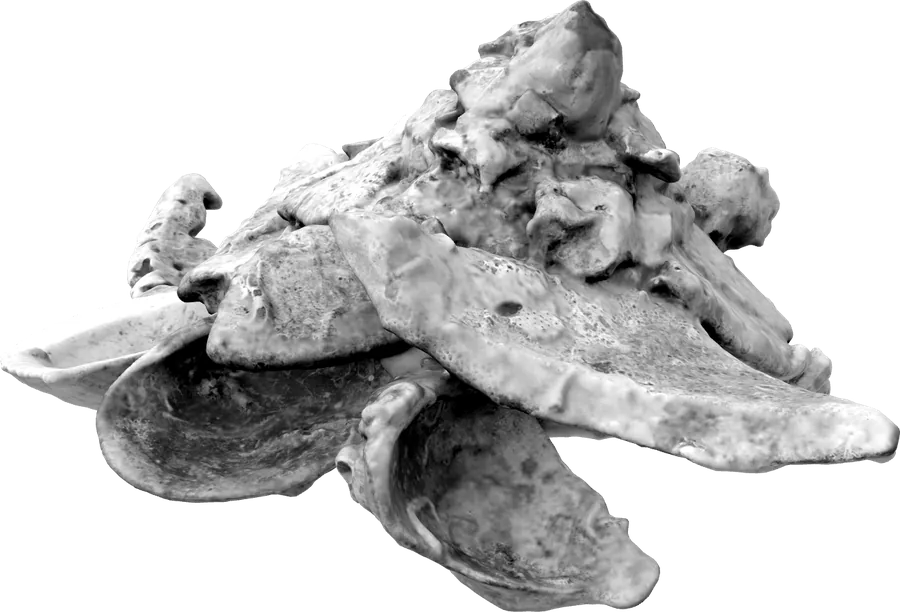
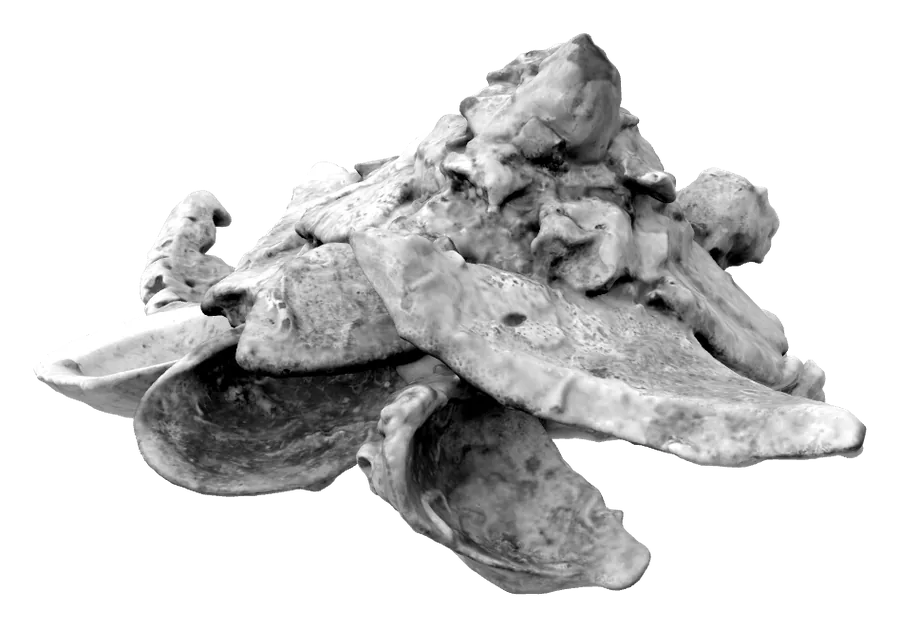
Xenófora real completa: la vista se recortaba abajo
Claude-Session: https://claude.ai/code/session_0157ByisvVguDCfhuNNC7ZLh

Changed region(s): [[0.0, 0.0, 1.0, 1.0]]

diff --git a/site/index.html b/site/index.html
@@ -651,7 +651,7 @@ footer a{color:inherit}
     <p class="fresh" id="concha-new"></p><h1 class="exp" data-en="Your xenophora">Tu xenófora</h1><h1 class="mys" data-en="The xenophora.">La xenófora.</h1>
     <p class="lede" data-en="Your story with the machine lives here. The idols you take wait here. Each gesture you make changes it. With seven gestures, it transforms.">Aquí vive tu historia con la máquina. Los ídolos que te llevas esperan aquí. Cada gesto que haces la cambia. Con siete gestos, se transforma.</p>
   </div>
-  <figure class="specimen"><img src="img/xenofora-ejemplar.webp" alt="Una xenófora de verdad: un caracol de mar cubierto de conchas que se pegó" data-en-alt="A real xenophora: a sea snail covered in shells it stuck to itself" width="520" height="496"><figcaption data-en="<i>Xenophora conchyliophora</i>, the real one. Smithsonian scan (NMNH, USNM 92924), public domain."><i>Xenophora conchyliophora</i>, la de verdad. Escaneo del Smithsonian (NMNH, USNM 92924), dominio público.</figcaption></figure></div>
+  <figure class="specimen"><img src="img/xenofora-ejemplar.webp" alt="Una xenófora de verdad: un caracol de mar cubierto de conchas que se pegó" data-en-alt="A real xenophora: a sea snail covered in shells it stuck to itself" width="510" height="520"><figcaption data-en="<i>Xenophora conchyliophora</i>, the real one. Smithsonian scan (NMNH, USNM 92924), public domain."><i>Xenophora conchyliophora</i>, la de verdad. Escaneo del Smithsonian (NMNH, USNM 92924), dominio público.</figcaption></figure></div>
   <div class="concha-grid">
     <canvas id="shell" width="1000" height="1000" aria-label="Tu xenófora: una espiral con tus ídolos pegados" data-en-aria-label="Your xenophora: a spiral with your idols stuck to it"></canvas>
     <div class="concha-side">

diff --git a/source/template.html b/source/template.html
@@ -651,7 +651,7 @@ footer a{color:inherit}
     <p class="fresh" id="concha-new"></p><h1 class="exp" data-en="Your xenophora">Tu xenófora</h1><h1 class="mys" data-en="The xenophora.">La xenófora.</h1>
     <p class="lede" data-en="Your story with the machine lives here. The idols you take wait here. Each gesture you make changes it. With seven gestures, it transforms.">Aquí vive tu historia con la máquina. Los ídolos que te llevas esperan aquí. Cada gesto que haces la cambia. Con siete gestos, se transforma.</p>
   </div>
-  <figure class="specimen"><img src="img/xenofora-ejemplar.webp" alt="Una xenófora de verdad: un caracol de mar cubierto de conchas que se pegó" data-en-alt="A real xenophora: a sea snail covered in shells it stuck to itself" width="520" height="496"><figcaption data-en="<i>Xenophora conchyliophora</i>, the real one. Smithsonian scan (NMNH, USNM 92924), public domain."><i>Xenophora conchyliophora</i>, la de verdad. Escaneo del Smithsonian (NMNH, USNM 92924), dominio público.</figcaption></figure></div>
+  <figure class="specimen"><img src="img/xenofora-ejemplar.webp" alt="Una xenófora de verdad: un caracol de mar cubierto de conchas que se pegó" data-en-alt="A real xenophora: a sea snail covered in shells it stuck to itself" width="510" height="520"><figcaption data-en="<i>Xenophora conchyliophora</i>, the real one. Smithsonian scan (NMNH, USNM 92924), public domain."><i>Xenophora conchyliophora</i>, la de verdad. Escaneo del Smithsonian (NMNH, USNM 92924), dominio público.</figcaption></figure></div>
   <div class="concha-grid">
     <canvas id="shell" width="1000" height="1000" aria-label="Tu xenófora: una espiral con tus ídolos pegados" data-en-aria-label="Your xenophora: a spiral with your idols stuck to it"></canvas>
     <div class="concha-side">
